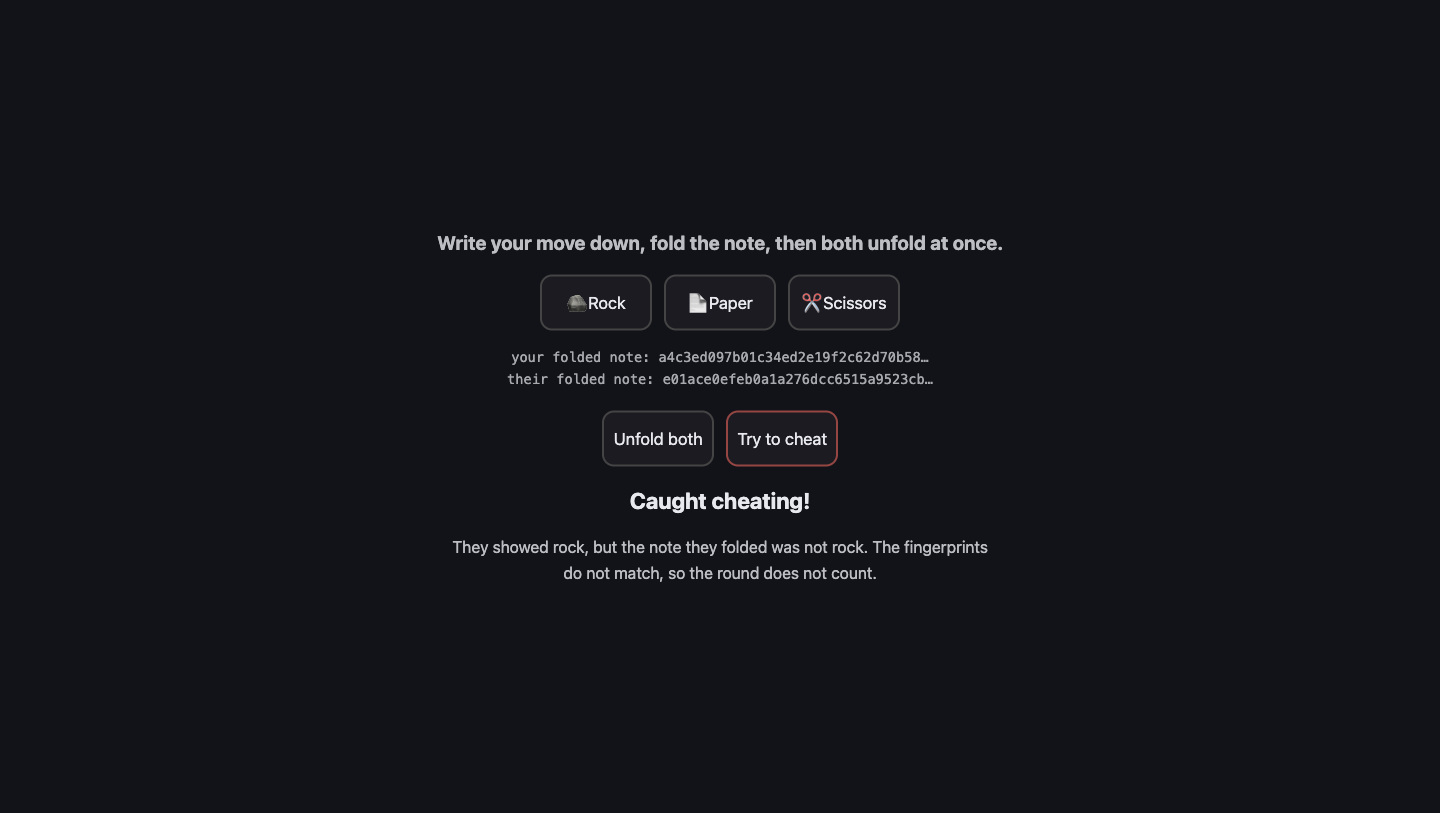
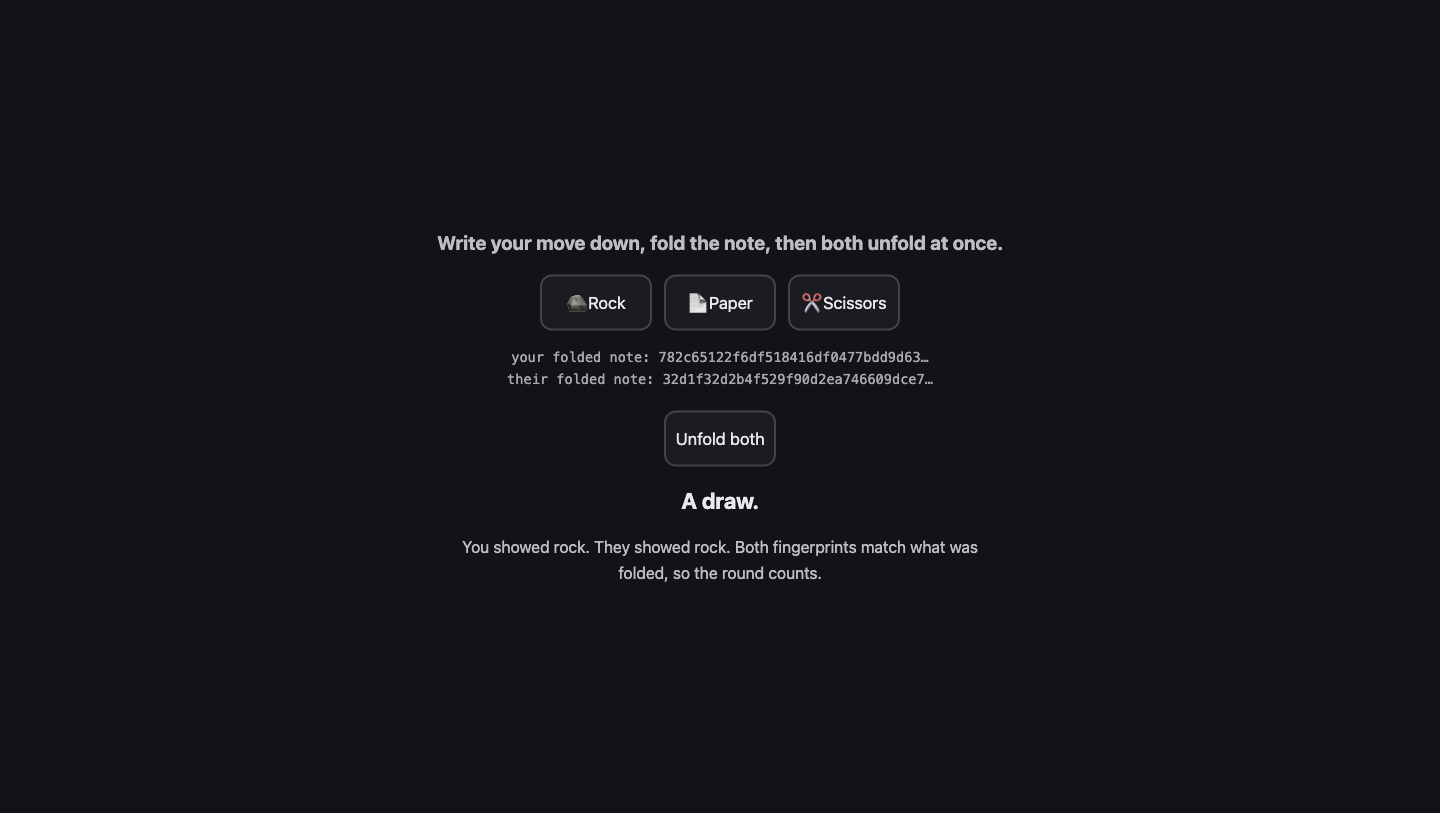
A22: drop the cheat button, move lying-to-the-check into the exercise
The button is gone from the demo, so the lesson no longer points at it. Proving
the check can return false is now the exercise, done from the console — which
is a better place for it, because a student has to construct the lie themselves
rather than press a button labelled as cheating.

Changed region(s): [[0.3125, 0.4305, 0.6875, 0.738]]

diff --git a/docs/pt/lessons/a22.html b/docs/pt/lessons/a22.html
@@ -128,7 +128,7 @@ async function reveal() {
 </code></pre>
 <p>That is the whole thing. Take the move and secret they showed you, fingerprint them again exactly the way they should have, and compare with the fingerprint they sent before. Same, honest. Different, they swapped their move after seeing yours.</p>
 <p>Notice this is a pure block, like <code>compare</code> in <a href="a20.html">A20</a>: values in, true or false out, nothing touched. Both players run it and both get the same answer, which is exactly what you need when there is nobody to appeal to.</p>
-<p>The demo's red button reveals a move that was never folded, so you can watch this line catch it.</p>
+<p>This is the block you cannot see working. When everybody is honest, <code>check</code> returns <code>true</code> every time and nothing happens — which is exactly what a piece of security code looks like when it is doing its job. To watch it earn its place you have to lie to it on purpose, which is what "Your turn" at the bottom of this step asks you to do.</p>
 <h2 id="why-we-did-it-this-way"><a class="heading-anchor" href="#why-we-did-it-this-way">Why we did it this way</a></h2>
 <p>The forcing constraint: <strong>there is no server.</strong> In most games a company's computer holds both moves and opens them at the same time, and you trust the company. Your game has no company and no referee. The only thing two computers share is messages, and either one could lie about anything.</p>
 <p>So instead of trusting, you make lying not work. A fingerprint you cannot reverse means sending it early gives nothing away; a fingerprint you cannot fake means changing your move afterwards is caught, every time, by arithmetic. <em>Grown-up programmers call this commit–reveal, and it is used far outside games — in auctions and in voting.</em></p>
@@ -170,12 +170,12 @@ a secure context.
 </code></pre>
 <p><strong>Check the output for:</strong> does the "cheat" button always reveal a move that is genuinely different from the folded one? Ours did not at first — it revealed the move that beats yours, which is sometimes the move the opponent had already folded, so the check passed and nothing was caught about one press in three. Also check that <code>check</code> refingerprints the move <em>and</em> the secret in the same order they were joined; get the order wrong and every honest round is reported as cheating.</p>
 <h2 id="see-it-work"><a class="heading-anchor" href="#see-it-work">See it work</a></h2>
-<p><img alt="The demo showing two folded fingerprints as long strings of characters, and the verdict &quot;Caught cheating! They showed rock, but the note they folded was not rock.&quot;" src="../static/img/game/a22.png"></p>
+<p><img alt="The demo showing two folded fingerprints as long strings of characters, then both moves revealed and the line &quot;Both fingerprints match what was folded, so the round counts.&quot;" src="../static/img/game/a22.png"></p>
 <p>Open the page with Live Server and:</p>
 <ol>
 <li>Press <strong>scissors</strong>. Two long fingerprints appear. Neither of them tells you anything about either move — that is the point.</li>
 <li>Press <strong>Unfold both</strong>. Both moves appear and the round counts. We read the checking result back and got <code>{ youHonest: true, theyHonest: true }</code>, with the verdict "A draw." and both fingerprints matching.</li>
-<li>Press a move again, then press <strong>Try to cheat</strong>. The screen says <strong>"Caught cheating!"</strong> We read the same result back and got <code>{ youHonest: true, theyHonest: false }</code>: the opponent had folded <code>paper</code> and showed <code>rock</code>.</li>
+<li>Open the console and type <code>lastCheck</code>. You get both moves, both secrets, and <code>youHonest: true, theyHonest: true</code> — the proof that the check ran and passed, rather than being skipped.</li>
 <li>Press the same move twice and look at the two fingerprints. They are different every time, because the secret is new every time. A cheat cannot even tell whether you played the same move twice.</li>
 </ol>
 <h2 id="put-it-in-the-game"><a class="heading-anchor" href="#put-it-in-the-game">Put it in the game</a></h2>
@@ -192,7 +192,12 @@ a secure context.
 </div>
 
 <h2 id="your-turn"><a class="heading-anchor" href="#your-turn">Your turn</a></h2>
-<p>Add a clock. If someone does not send their move within ten seconds of both fingerprints being down, the round is thrown away. Then work out why this is needed at all: what does a player gain by folding a move and then never unfolding it, and what would they do it for?</p>
+<p><strong>Lie to it on purpose.</strong> Play a round, then in the console change the move that gets shown so it is not the one that was folded, and check it again:</p>
+<pre><code>const faked = { move: 'rock', secret: lastCheck.theirShown.secret };
+await check(faked, lastCheck.theirShown === lastCheck.yourShown ? null : them.folded);
+</code></pre>
+<p>You should get <code>false</code>. That is the whole block earning its place, and until you have seen it return <code>false</code> you have only seen it agree with you.</p>
+<p>Then, if you want a harder one: add a clock. If someone does not show their move within ten seconds of both fingerprints being down, throw the round away. Work out why that is needed at all — what does a player gain by folding a move and then never showing it?</p>
       <nav class="lesson-breadcrumb lesson-breadcrumb-bottom">
         <a href="../ai-lessons.html">Voltar para as Aulas de IA</a>
         <div class="lesson-pager">

diff --git a/docs/ja/lessons/a22.html b/docs/ja/lessons/a22.html
@@ -128,7 +128,7 @@ async function reveal() {
 </code></pre>
 <p>That is the whole thing. Take the move and secret they showed you, fingerprint them again exactly the way they should have, and compare with the fingerprint they sent before. Same, honest. Different, they swapped their move after seeing yours.</p>
 <p>Notice this is a pure block, like <code>compare</code> in <a href="a20.html">A20</a>: values in, true or false out, nothing touched. Both players run it and both get the same answer, which is exactly what you need when there is nobody to appeal to.</p>
-<p>The demo's red button reveals a move that was never folded, so you can watch this line catch it.</p>
+<p>This is the block you cannot see working. When everybody is honest, <code>check</code> returns <code>true</code> every time and nothing happens — which is exactly what a piece of security code looks like when it is doing its job. To watch it earn its place you have to lie to it on purpose, which is what "Your turn" at the bottom of this step asks you to do.</p>
 <h2 id="why-we-did-it-this-way"><a class="heading-anchor" href="#why-we-did-it-this-way">Why we did it this way</a></h2>
 <p>The forcing constraint: <strong>there is no server.</strong> In most games a company's computer holds both moves and opens them at the same time, and you trust the company. Your game has no company and no referee. The only thing two computers share is messages, and either one could lie about anything.</p>
 <p>So instead of trusting, you make lying not work. A fingerprint you cannot reverse means sending it early gives nothing away; a fingerprint you cannot fake means changing your move afterwards is caught, every time, by arithmetic. <em>Grown-up programmers call this commit–reveal, and it is used far outside games — in auctions and in voting.</em></p>
@@ -170,12 +170,12 @@ a secure context.
 </code></pre>
 <p><strong>Check the output for:</strong> does the "cheat" button always reveal a move that is genuinely different from the folded one? Ours did not at first — it revealed the move that beats yours, which is sometimes the move the opponent had already folded, so the check passed and nothing was caught about one press in three. Also check that <code>check</code> refingerprints the move <em>and</em> the secret in the same order they were joined; get the order wrong and every honest round is reported as cheating.</p>
 <h2 id="see-it-work"><a class="heading-anchor" href="#see-it-work">See it work</a></h2>
-<p><img alt="The demo showing two folded fingerprints as long strings of characters, and the verdict &quot;Caught cheating! They showed rock, but the note they folded was not rock.&quot;" src="../static/img/game/a22.png"></p>
+<p><img alt="The demo showing two folded fingerprints as long strings of characters, then both moves revealed and the line &quot;Both fingerprints match what was folded, so the round counts.&quot;" src="../static/img/game/a22.png"></p>
 <p>Open the page with Live Server and:</p>
 <ol>
 <li>Press <strong>scissors</strong>. Two long fingerprints appear. Neither of them tells you anything about either move — that is the point.</li>
 <li>Press <strong>Unfold both</strong>. Both moves appear and the round counts. We read the checking result back and got <code>{ youHonest: true, theyHonest: true }</code>, with the verdict "A draw." and both fingerprints matching.</li>
-<li>Press a move again, then press <strong>Try to cheat</strong>. The screen says <strong>"Caught cheating!"</strong> We read the same result back and got <code>{ youHonest: true, theyHonest: false }</code>: the opponent had folded <code>paper</code> and showed <code>rock</code>.</li>
+<li>Open the console and type <code>lastCheck</code>. You get both moves, both secrets, and <code>youHonest: true, theyHonest: true</code> — the proof that the check ran and passed, rather than being skipped.</li>
 <li>Press the same move twice and look at the two fingerprints. They are different every time, because the secret is new every time. A cheat cannot even tell whether you played the same move twice.</li>
 </ol>
 <h2 id="put-it-in-the-game"><a class="heading-anchor" href="#put-it-in-the-game">Put it in the game</a></h2>
@@ -192,7 +192,12 @@ a secure context.
 </div>
 
 <h2 id="your-turn"><a class="heading-anchor" href="#your-turn">Your turn</a></h2>
-<p>Add a clock. If someone does not send their move within ten seconds of both fingerprints being down, the round is thrown away. Then work out why this is needed at all: what does a player gain by folding a move and then never unfolding it, and what would they do it for?</p>
+<p><strong>Lie to it on purpose.</strong> Play a round, then in the console change the move that gets shown so it is not the one that was folded, and check it again:</p>
+<pre><code>const faked = { move: 'rock', secret: lastCheck.theirShown.secret };
+await check(faked, lastCheck.theirShown === lastCheck.yourShown ? null : them.folded);
+</code></pre>
+<p>You should get <code>false</code>. That is the whole block earning its place, and until you have seen it return <code>false</code> you have only seen it agree with you.</p>
+<p>Then, if you want a harder one: add a clock. If someone does not show their move within ten seconds of both fingerprints being down, throw the round away. Work out why that is needed at all — what does a player gain by folding a move and then never showing it?</p>
       <nav class="lesson-breadcrumb lesson-breadcrumb-bottom">
         <a href="../ai-lessons.html">AIレッスンに戻る</a>
         <div class="lesson-pager">

diff --git a/docs/lessons/a22.html b/docs/lessons/a22.html
@@ -128,7 +128,7 @@ async function reveal() {
 </code></pre>
 <p>That is the whole thing. Take the move and secret they showed you, fingerprint them again exactly the way they should have, and compare with the fingerprint they sent before. Same, honest. Different, they swapped their move after seeing yours.</p>
 <p>Notice this is a pure block, like <code>compare</code> in <a href="a20.html">A20</a>: values in, true or false out, nothing touched. Both players run it and both get the same answer, which is exactly what you need when there is nobody to appeal to.</p>
-<p>The demo's red button reveals a move that was never folded, so you can watch this line catch it.</p>
+<p>This is the block you cannot see working. When everybody is honest, <code>check</code> returns <code>true</code> every time and nothing happens — which is exactly what a piece of security code looks like when it is doing its job. To watch it earn its place you have to lie to it on purpose, which is what "Your turn" at the bottom of this step asks you to do.</p>
 <h2 id="why-we-did-it-this-way"><a class="heading-anchor" href="#why-we-did-it-this-way">Why we did it this way</a></h2>
 <p>The forcing constraint: <strong>there is no server.</strong> In most games a company's computer holds both moves and opens them at the same time, and you trust the company. Your game has no company and no referee. The only thing two computers share is messages, and either one could lie about anything.</p>
 <p>So instead of trusting, you make lying not work. A fingerprint you cannot reverse means sending it early gives nothing away; a fingerprint you cannot fake means changing your move afterwards is caught, every time, by arithmetic. <em>Grown-up programmers call this commit–reveal, and it is used far outside games — in auctions and in voting.</em></p>
@@ -170,12 +170,12 @@ a secure context.
 </code></pre>
 <p><strong>Check the output for:</strong> does the "cheat" button always reveal a move that is genuinely different from the folded one? Ours did not at first — it revealed the move that beats yours, which is sometimes the move the opponent had already folded, so the check passed and nothing was caught about one press in three. Also check that <code>check</code> refingerprints the move <em>and</em> the secret in the same order they were joined; get the order wrong and every honest round is reported as cheating.</p>
 <h2 id="see-it-work"><a class="heading-anchor" href="#see-it-work">See it work</a></h2>
-<p><img alt="The demo showing two folded fingerprints as long strings of characters, and the verdict &quot;Caught cheating! They showed rock, but the note they folded was not rock.&quot;" src="../static/img/game/a22.png"></p>
+<p><img alt="The demo showing two folded fingerprints as long strings of characters, then both moves revealed and the line &quot;Both fingerprints match what was folded, so the round counts.&quot;" src="../static/img/game/a22.png"></p>
 <p>Open the page with Live Server and:</p>
 <ol>
 <li>Press <strong>scissors</strong>. Two long fingerprints appear. Neither of them tells you anything about either move — that is the point.</li>
 <li>Press <strong>Unfold both</strong>. Both moves appear and the round counts. We read the checking result back and got <code>{ youHonest: true, theyHonest: true }</code>, with the verdict "A draw." and both fingerprints matching.</li>
-<li>Press a move again, then press <strong>Try to cheat</strong>. The screen says <strong>"Caught cheating!"</strong> We read the same result back and got <code>{ youHonest: true, theyHonest: false }</code>: the opponent had folded <code>paper</code> and showed <code>rock</code>.</li>
+<li>Open the console and type <code>lastCheck</code>. You get both moves, both secrets, and <code>youHonest: true, theyHonest: true</code> — the proof that the check ran and passed, rather than being skipped.</li>
 <li>Press the same move twice and look at the two fingerprints. They are different every time, because the secret is new every time. A cheat cannot even tell whether you played the same move twice.</li>
 </ol>
 <h2 id="put-it-in-the-game"><a class="heading-anchor" href="#put-it-in-the-game">Put it in the game</a></h2>
@@ -192,7 +192,12 @@ a secure context.
 </div>
 
 <h2 id="your-turn"><a class="heading-anchor" href="#your-turn">Your turn</a></h2>
-<p>Add a clock. If someone does not send their move within ten seconds of both fingerprints being down, the round is thrown away. Then work out why this is needed at all: what does a player gain by folding a move and then never unfolding it, and what would they do it for?</p>
+<p><strong>Lie to it on purpose.</strong> Play a round, then in the console change the move that gets shown so it is not the one that was folded, and check it again:</p>
+<pre><code>const faked = { move: 'rock', secret: lastCheck.theirShown.secret };
+await check(faked, lastCheck.theirShown === lastCheck.yourShown ? null : them.folded);
+</code></pre>
+<p>You should get <code>false</code>. That is the whole block earning its place, and until you have seen it return <code>false</code> you have only seen it agree with you.</p>
+<p>Then, if you want a harder one: add a clock. If someone does not show their move within ten seconds of both fingerprints being down, throw the round away. Work out why that is needed at all — what does a player gain by folding a move and then never showing it?</p>
       <nav class="lesson-breadcrumb lesson-breadcrumb-bottom">
         <a href="../ai-lessons.html">Back to AI Lessons</a>
         <div class="lesson-pager">

diff --git a/content/ai/a22.md b/content/ai/a22.md
@@ -119,7 +119,7 @@ That is the whole thing. Take the move and secret they showed you, fingerprint t
 
 Notice this is a pure block, like `compare` in [A20](a20.html): values in, true or false out, nothing touched. Both players run it and both get the same answer, which is exactly what you need when there is nobody to appeal to.
 
-The demo's red button reveals a move that was never folded, so you can watch this line catch it.
+This is the block you cannot see working. When everybody is honest, `check` returns `true` every time and nothing happens — which is exactly what a piece of security code looks like when it is doing its job. To watch it earn its place you have to lie to it on purpose, which is what "Your turn" at the bottom of this step asks you to do.
 
 ## Why we did it this way
 
@@ -152,13 +152,13 @@ a secure context.
 
 ## See it work
 
-![The demo showing two folded fingerprints as long strings of characters, and the verdict "Caught cheating! They showed rock, but the note they folded was not rock."](../static/img/game/a22.png)
+![The demo showing two folded fingerprints as long strings of characters, then both moves revealed and the line "Both fingerprints match what was folded, so the round counts."](../static/img/game/a22.png)
 
 Open the page with Live Server and:
 
 1. Press **scissors**. Two long fingerprints appear. Neither of them tells you anything about either move — that is the point.
 2. Press **Unfold both**. Both moves appear and the round counts. We read the checking result back and got `{ youHonest: true, theyHonest: true }`, with the verdict "A draw." and both fingerprints matching.
-3. Press a move again, then press **Try to cheat**. The screen says **"Caught cheating!"** We read the same result back and got `{ youHonest: true, theyHonest: false }`: the opponent had folded `paper` and showed `rock`.
+3. Open the console and type `lastCheck`. You get both moves, both secrets, and `youHonest: true, theyHonest: true` — the proof that the check ran and passed, rather than being skipped.
 4. Press the same move twice and look at the two fingerprints. They are different every time, because the secret is new every time. A cheat cannot even tell whether you played the same move twice.
 
 ## Put it in the game
@@ -178,4 +178,13 @@ In the fight from [A20](a20.html), send `folded` instead of the move. Wait for t
 
 ## Your turn
 
-Add a clock. If someone does not send their move within ten seconds of both fingerprints being down, the round is thrown away. Then work out why this is needed at all: what does a player gain by folding a move and then never unfolding it, and what would they do it for?
+**Lie to it on purpose.** Play a round, then in the console change the move that gets shown so it is not the one that was folded, and check it again:
+
+```
+const faked = { move: 'rock', secret: lastCheck.theirShown.secret };
+await check(faked, lastCheck.theirShown === lastCheck.yourShown ? null : them.folded);
+```
+
+You should get `false`. That is the whole block earning its place, and until you have seen it return `false` you have only seen it agree with you.
+
+Then, if you want a harder one: add a clock. If someone does not show their move within ten seconds of both fingerprints being down, throw the round away. Work out why that is needed at all — what does a player gain by folding a move and then never showing it?

diff --git a/docs/ja/lessons/a22.md b/docs/ja/lessons/a22.md
@@ -119,7 +119,7 @@ That is the whole thing. Take the move and secret they showed you, fingerprint t
 
 Notice this is a pure block, like `compare` in [A20](a20.html): values in, true or false out, nothing touched. Both players run it and both get the same answer, which is exactly what you need when there is nobody to appeal to.
 
-The demo's red button reveals a move that was never folded, so you can watch this line catch it.
+This is the block you cannot see working. When everybody is honest, `check` returns `true` every time and nothing happens — which is exactly what a piece of security code looks like when it is doing its job. To watch it earn its place you have to lie to it on purpose, which is what "Your turn" at the bottom of this step asks you to do.
 
 ## Why we did it this way
 
@@ -152,13 +152,13 @@ a secure context.
 
 ## See it work
 
-![The demo showing two folded fingerprints as long strings of characters, and the verdict "Caught cheating! They showed rock, but the note they folded was not rock."](../static/img/game/a22.png)
+![The demo showing two folded fingerprints as long strings of characters, then both moves revealed and the line "Both fingerprints match what was folded, so the round counts."](../static/img/game/a22.png)
 
 Open the page with Live Server and:
 
 1. Press **scissors**. Two long fingerprints appear. Neither of them tells you anything about either move — that is the point.
 2. Press **Unfold both**. Both moves appear and the round counts. We read the checking result back and got `{ youHonest: true, theyHonest: true }`, with the verdict "A draw." and both fingerprints matching.
-3. Press a move again, then press **Try to cheat**. The screen says **"Caught cheating!"** We read the same result back and got `{ youHonest: true, theyHonest: false }`: the opponent had folded `paper` and showed `rock`.
+3. Open the console and type `lastCheck`. You get both moves, both secrets, and `youHonest: true, theyHonest: true` — the proof that the check ran and passed, rather than being skipped.
 4. Press the same move twice and look at the two fingerprints. They are different every time, because the secret is new every time. A cheat cannot even tell whether you played the same move twice.
 
 ## Put it in the game
@@ -178,4 +178,13 @@ In the fight from [A20](a20.html), send `folded` instead of the move. Wait for t
 
 ## Your turn
 
-Add a clock. If someone does not send their move within ten seconds of both fingerprints being down, the round is thrown away. Then work out why this is needed at all: what does a player gain by folding a move and then never unfolding it, and what would they do it for?
+**Lie to it on purpose.** Play a round, then in the console change the move that gets shown so it is not the one that was folded, and check it again:
+
+```
+const faked = { move: 'rock', secret: lastCheck.theirShown.secret };
+await check(faked, lastCheck.theirShown === lastCheck.yourShown ? null : them.folded);
+```
+
+You should get `false`. That is the whole block earning its place, and until you have seen it return `false` you have only seen it agree with you.
+
+Then, if you want a harder one: add a clock. If someone does not show their move within ten seconds of both fingerprints being down, throw the round away. Work out why that is needed at all — what does a player gain by folding a move and then never showing it?

diff --git a/docs/lessons/a22.md b/docs/lessons/a22.md
@@ -119,7 +119,7 @@ That is the whole thing. Take the move and secret they showed you, fingerprint t
 
 Notice this is a pure block, like `compare` in [A20](a20.html): values in, true or false out, nothing touched. Both players run it and both get the same answer, which is exactly what you need when there is nobody to appeal to.
 
-The demo's red button reveals a move that was never folded, so you can watch this line catch it.
+This is the block you cannot see working. When everybody is honest, `check` returns `true` every time and nothing happens — which is exactly what a piece of security code looks like when it is doing its job. To watch it earn its place you have to lie to it on purpose, which is what "Your turn" at the bottom of this step asks you to do.
 
 ## Why we did it this way
 
@@ -152,13 +152,13 @@ a secure context.
 
 ## See it work
 
-![The demo showing two folded fingerprints as long strings of characters, and the verdict "Caught cheating! They showed rock, but the note they folded was not rock."](../static/img/game/a22.png)
+![The demo showing two folded fingerprints as long strings of characters, then both moves revealed and the line "Both fingerprints match what was folded, so the round counts."](../static/img/game/a22.png)
 
 Open the page with Live Server and:
 
 1. Press **scissors**. Two long fingerprints appear. Neither of them tells you anything about either move — that is the point.
 2. Press **Unfold both**. Both moves appear and the round counts. We read the checking result back and got `{ youHonest: true, theyHonest: true }`, with the verdict "A draw." and both fingerprints matching.
-3. Press a move again, then press **Try to cheat**. The screen says **"Caught cheating!"** We read the same result back and got `{ youHonest: true, theyHonest: false }`: the opponent had folded `paper` and showed `rock`.
+3. Open the console and type `lastCheck`. You get both moves, both secrets, and `youHonest: true, theyHonest: true` — the proof that the check ran and passed, rather than being skipped.
 4. Press the same move twice and look at the two fingerprints. They are different every time, because the secret is new every time. A cheat cannot even tell whether you played the same move twice.
 
 ## Put it in the game
@@ -178,4 +178,13 @@ In the fight from [A20](a20.html), send `folded` instead of the move. Wait for t
 
 ## Your turn
 
-Add a clock. If someone does not send their move within ten seconds of both fingerprints being down, the round is thrown away. Then work out why this is needed at all: what does a player gain by folding a move and then never unfolding it, and what would they do it for?
+**Lie to it on purpose.** Play a round, then in the console change the move that gets shown so it is not the one that was folded, and check it again:
+
+```
+const faked = { move: 'rock', secret: lastCheck.theirShown.secret };
+await check(faked, lastCheck.theirShown === lastCheck.yourShown ? null : them.folded);
+```
+
+You should get `false`. That is the whole block earning its place, and until you have seen it return `false` you have only seen it agree with you.
+
+Then, if you want a harder one: add a clock. If someone does not show their move within ten seconds of both fingerprints being down, throw the round away. Work out why that is needed at all — what does a player gain by folding a move and then never showing it?

diff --git a/docs/pt/lessons/a22.md b/docs/pt/lessons/a22.md
@@ -119,7 +119,7 @@ That is the whole thing. Take the move and secret they showed you, fingerprint t
 
 Notice this is a pure block, like `compare` in [A20](a20.html): values in, true or false out, nothing touched. Both players run it and both get the same answer, which is exactly what you need when there is nobody to appeal to.
 
-The demo's red button reveals a move that was never folded, so you can watch this line catch it.
+This is the block you cannot see working. When everybody is honest, `check` returns `true` every time and nothing happens — which is exactly what a piece of security code looks like when it is doing its job. To watch it earn its place you have to lie to it on purpose, which is what "Your turn" at the bottom of this step asks you to do.
 
 ## Why we did it this way
 
@@ -152,13 +152,13 @@ a secure context.
 
 ## See it work
 
-![The demo showing two folded fingerprints as long strings of characters, and the verdict "Caught cheating! They showed rock, but the note they folded was not rock."](../static/img/game/a22.png)
+![The demo showing two folded fingerprints as long strings of characters, then both moves revealed and the line "Both fingerprints match what was folded, so the round counts."](../static/img/game/a22.png)
 
 Open the page with Live Server and:
 
 1. Press **scissors**. Two long fingerprints appear. Neither of them tells you anything about either move — that is the point.
 2. Press **Unfold both**. Both moves appear and the round counts. We read the checking result back and got `{ youHonest: true, theyHonest: true }`, with the verdict "A draw." and both fingerprints matching.
-3. Press a move again, then press **Try to cheat**. The screen says **"Caught cheating!"** We read the same result back and got `{ youHonest: true, theyHonest: false }`: the opponent had folded `paper` and showed `rock`.
+3. Open the console and type `lastCheck`. You get both moves, both secrets, and `youHonest: true, theyHonest: true` — the proof that the check ran and passed, rather than being skipped.
 4. Press the same move twice and look at the two fingerprints. They are different every time, because the secret is new every time. A cheat cannot even tell whether you played the same move twice.
 
 ## Put it in the game
@@ -178,4 +178,13 @@ In the fight from [A20](a20.html), send `folded` instead of the move. Wait for t
 
 ## Your turn
 
-Add a clock. If someone does not send their move within ten seconds of both fingerprints being down, the round is thrown away. Then work out why this is needed at all: what does a player gain by folding a move and then never unfolding it, and what would they do it for?
+**Lie to it on purpose.** Play a round, then in the console change the move that gets shown so it is not the one that was folded, and check it again:
+
+```
+const faked = { move: 'rock', secret: lastCheck.theirShown.secret };
+await check(faked, lastCheck.theirShown === lastCheck.yourShown ? null : them.folded);
+```
+
+You should get `false`. That is the whole block earning its place, and until you have seen it return `false` you have only seen it agree with you.
+
+Then, if you want a harder one: add a clock. If someone does not show their move within ten seconds of both fingerprints being down, throw the round away. Work out why that is needed at all — what does a player gain by folding a move and then never showing it?
